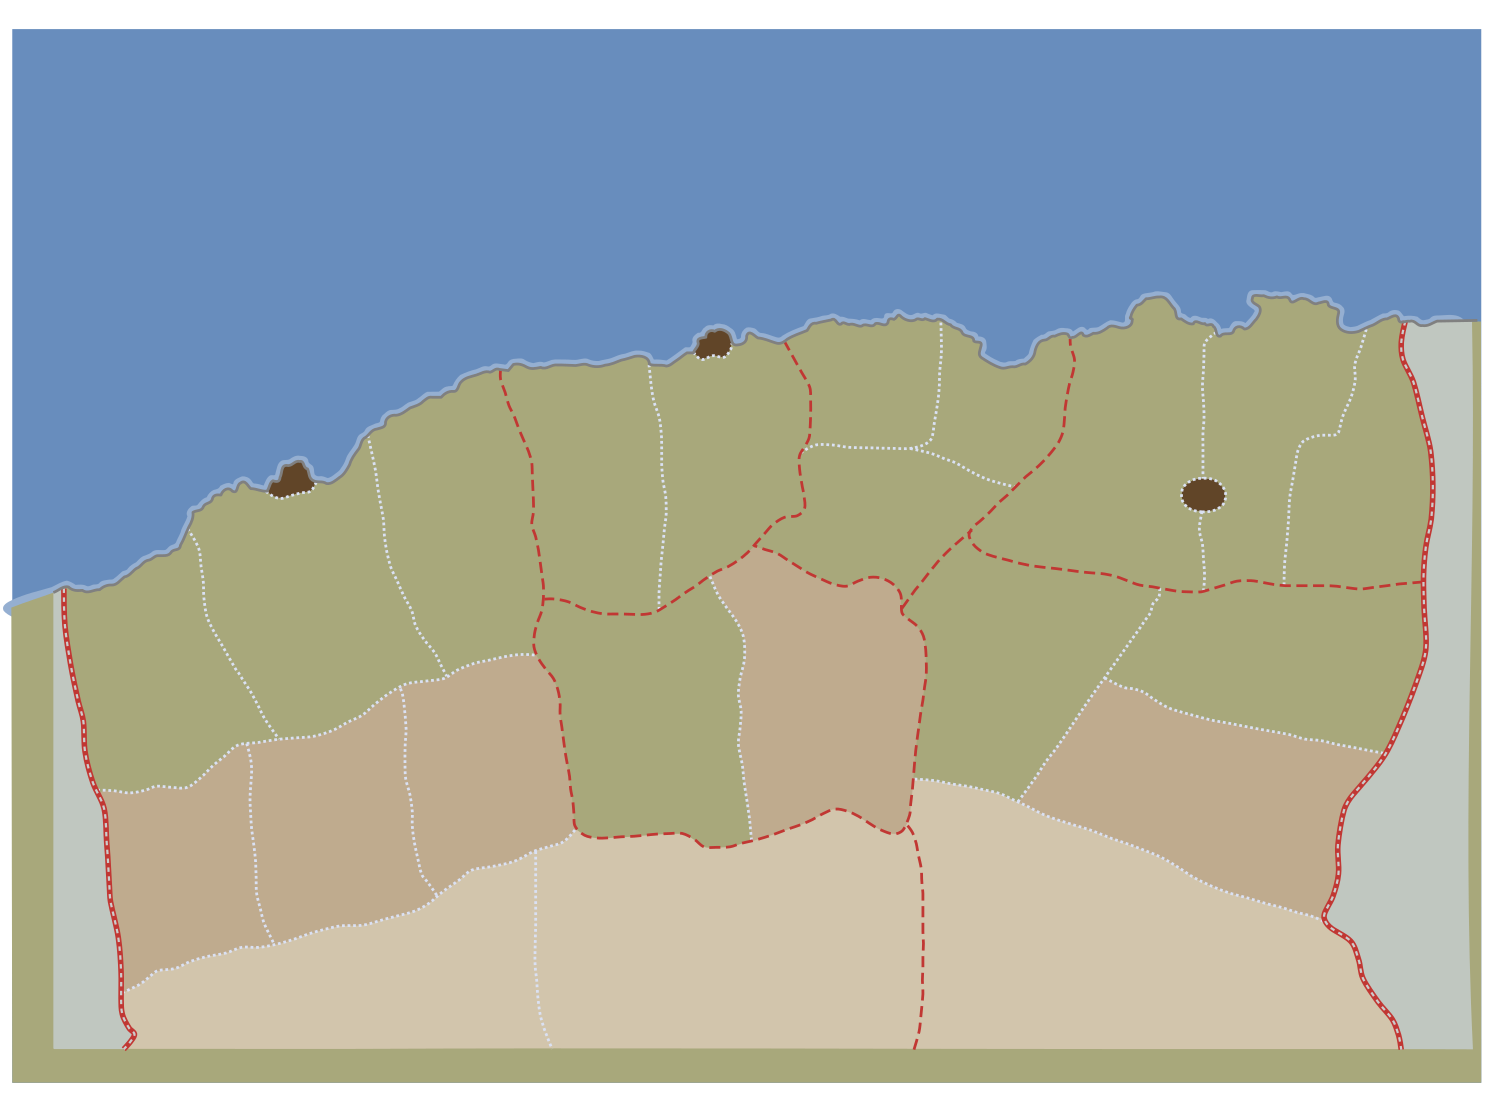
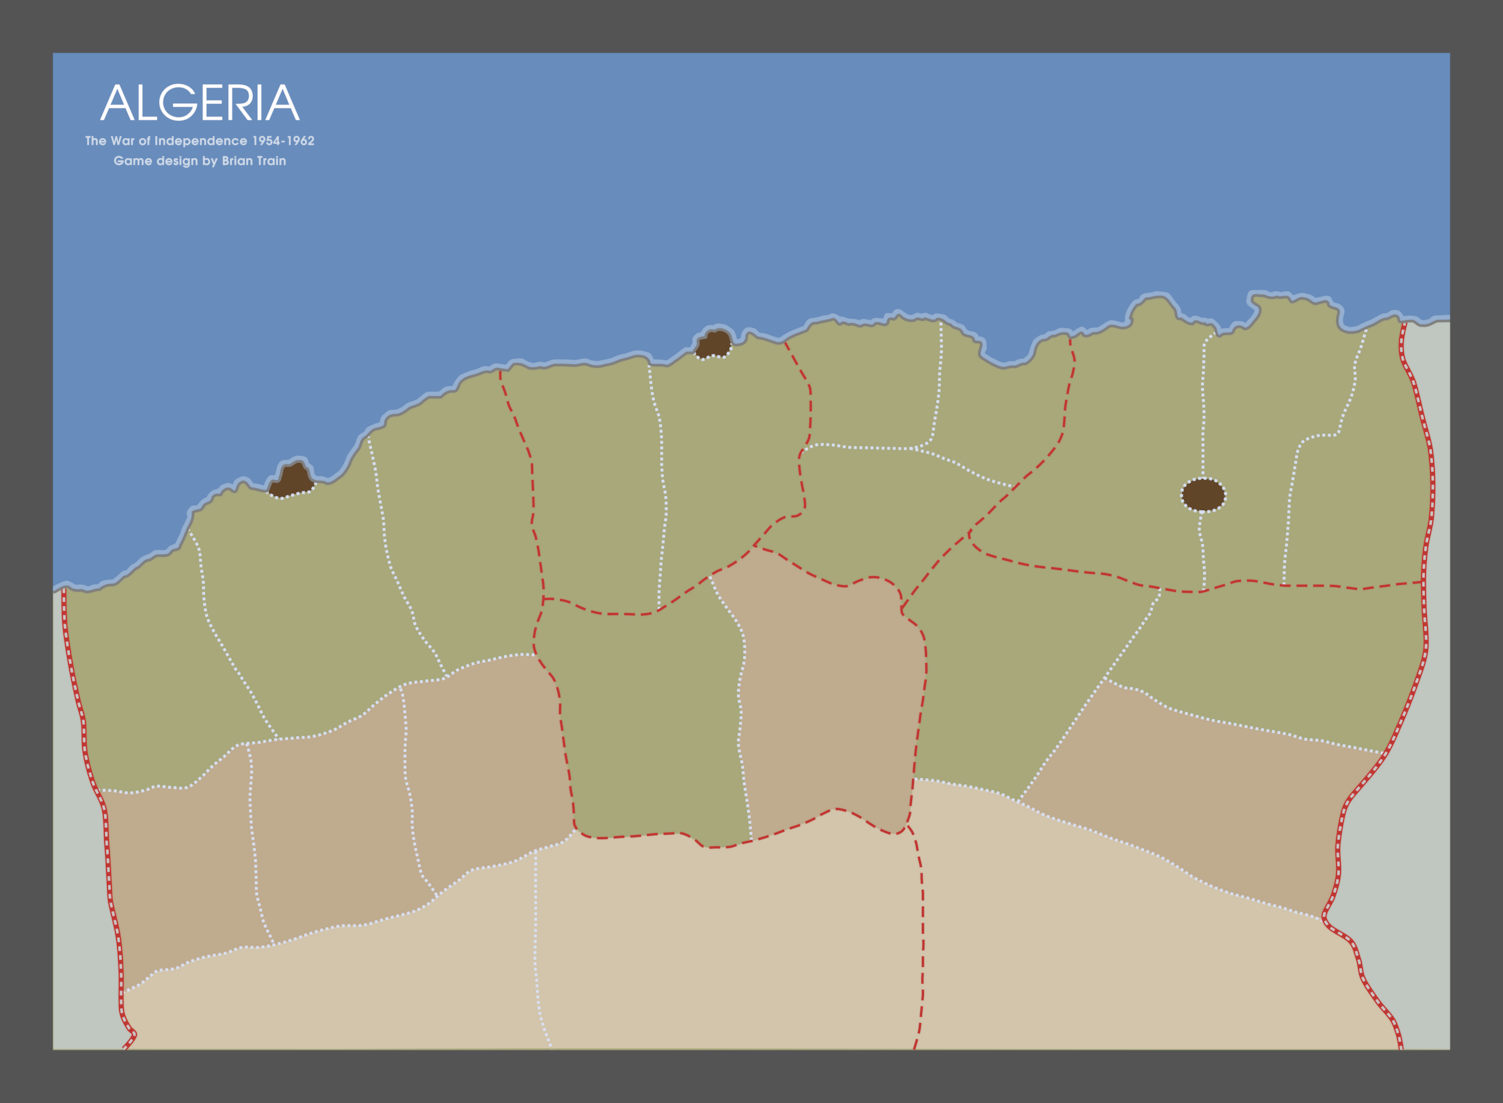
Move title and border mask to map svg from play html.
Removes the need for URW Gothic as a web font.

Changed region(s): [[0.0, 0.0, 1.0, 1.0]]

diff --git a/play.html b/play.html
@@ -14,11 +14,6 @@
 <script defer src="play.js"></script>
 <style>
 
-@font-face { font-family: "URW Gothic"; src: url(fonts/URWGothic-Book.woff2); }
-@font-face { font-family: "URW Gothic"; font-weight: bold; src: url(fonts/URWGothic-Demi.woff2); }
-@font-face { font-family: "URW Gothic"; font-style: italic; src: url(fonts/URWGothic-BookOblique.woff2); }
-@font-face { font-family: "URW Gothic"; font-style: italic; font-weight: bold; src: url(fonts/URWGothic-DemiOblique.woff2); }
-
 :root {
 	--fln-base: #006633;
 	--fln-70: #61b37b;
@@ -538,19 +533,6 @@ svg .area.tip, svg .urban2.tip {
 		<div id="map">
 
 <svg id="svgmap" width="1503px" height="1103px" viewBox="0 0 1503 1103">
-
-<g fill="#555">
-<rect width="1503" height="53" x="0" y="0" />
-<rect width="1503" height="53" x="0" y="1050" />
-<rect width="53" height="1103" x="0" y="0" />
-<rect width="53" height="1103" x="1450" y="0" />
-</g>
-
-<g font-family="URW Gothic" text-anchor="middle" fill="white">
-<text font-size="48" x="200" y="120" fill="white">ALGERIA</text>
-<text fill-opacity="0.7" font-weight="bold" letter-spacing="0.5" font-size="12" x="200" y="145" fill="white">The War of Independence 1954-1962</text>
-<text fill-opacity="0.7" font-weight="bold" letter-spacing="0.5" font-size="12" x="200" y="165" fill="white">Game design by Brian Train</text>
-</g>
 
 <rect x="895" y="110" width="135" height="100" fill="#888" />
 <rect x="895" y="110" width="45" height="100" opacity="0.6" fill="#002153" />
